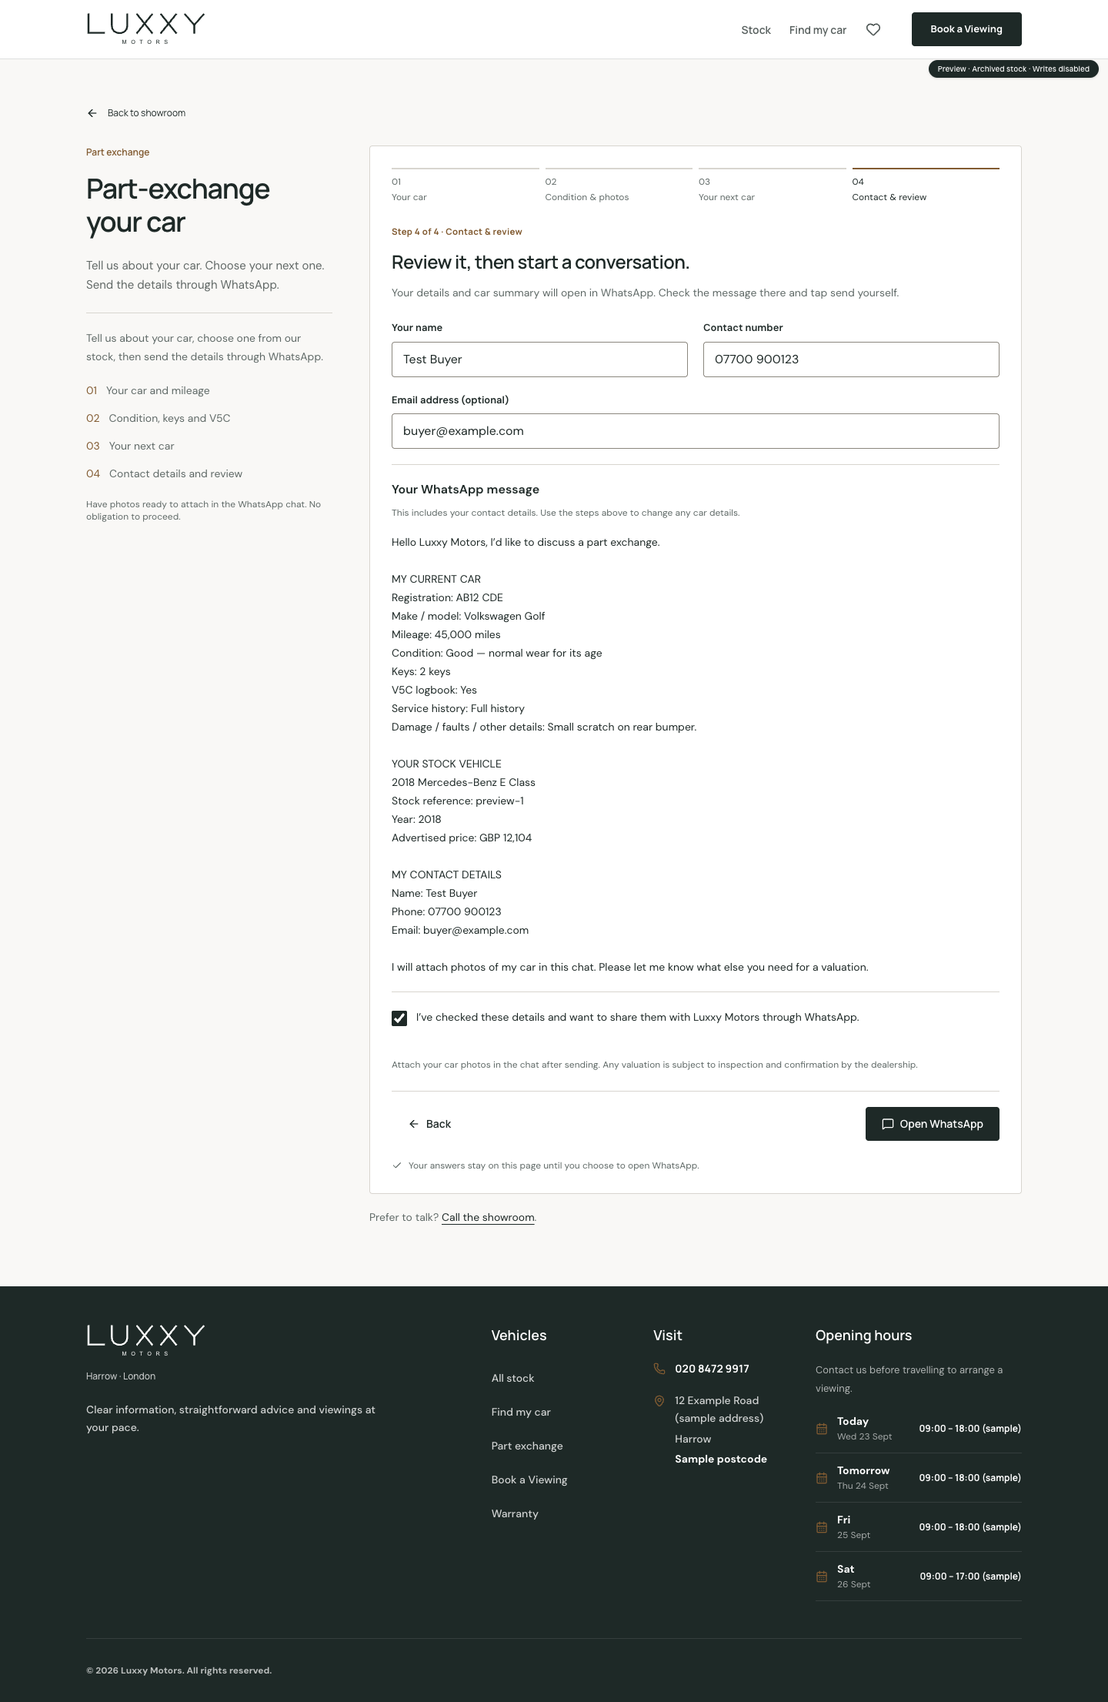
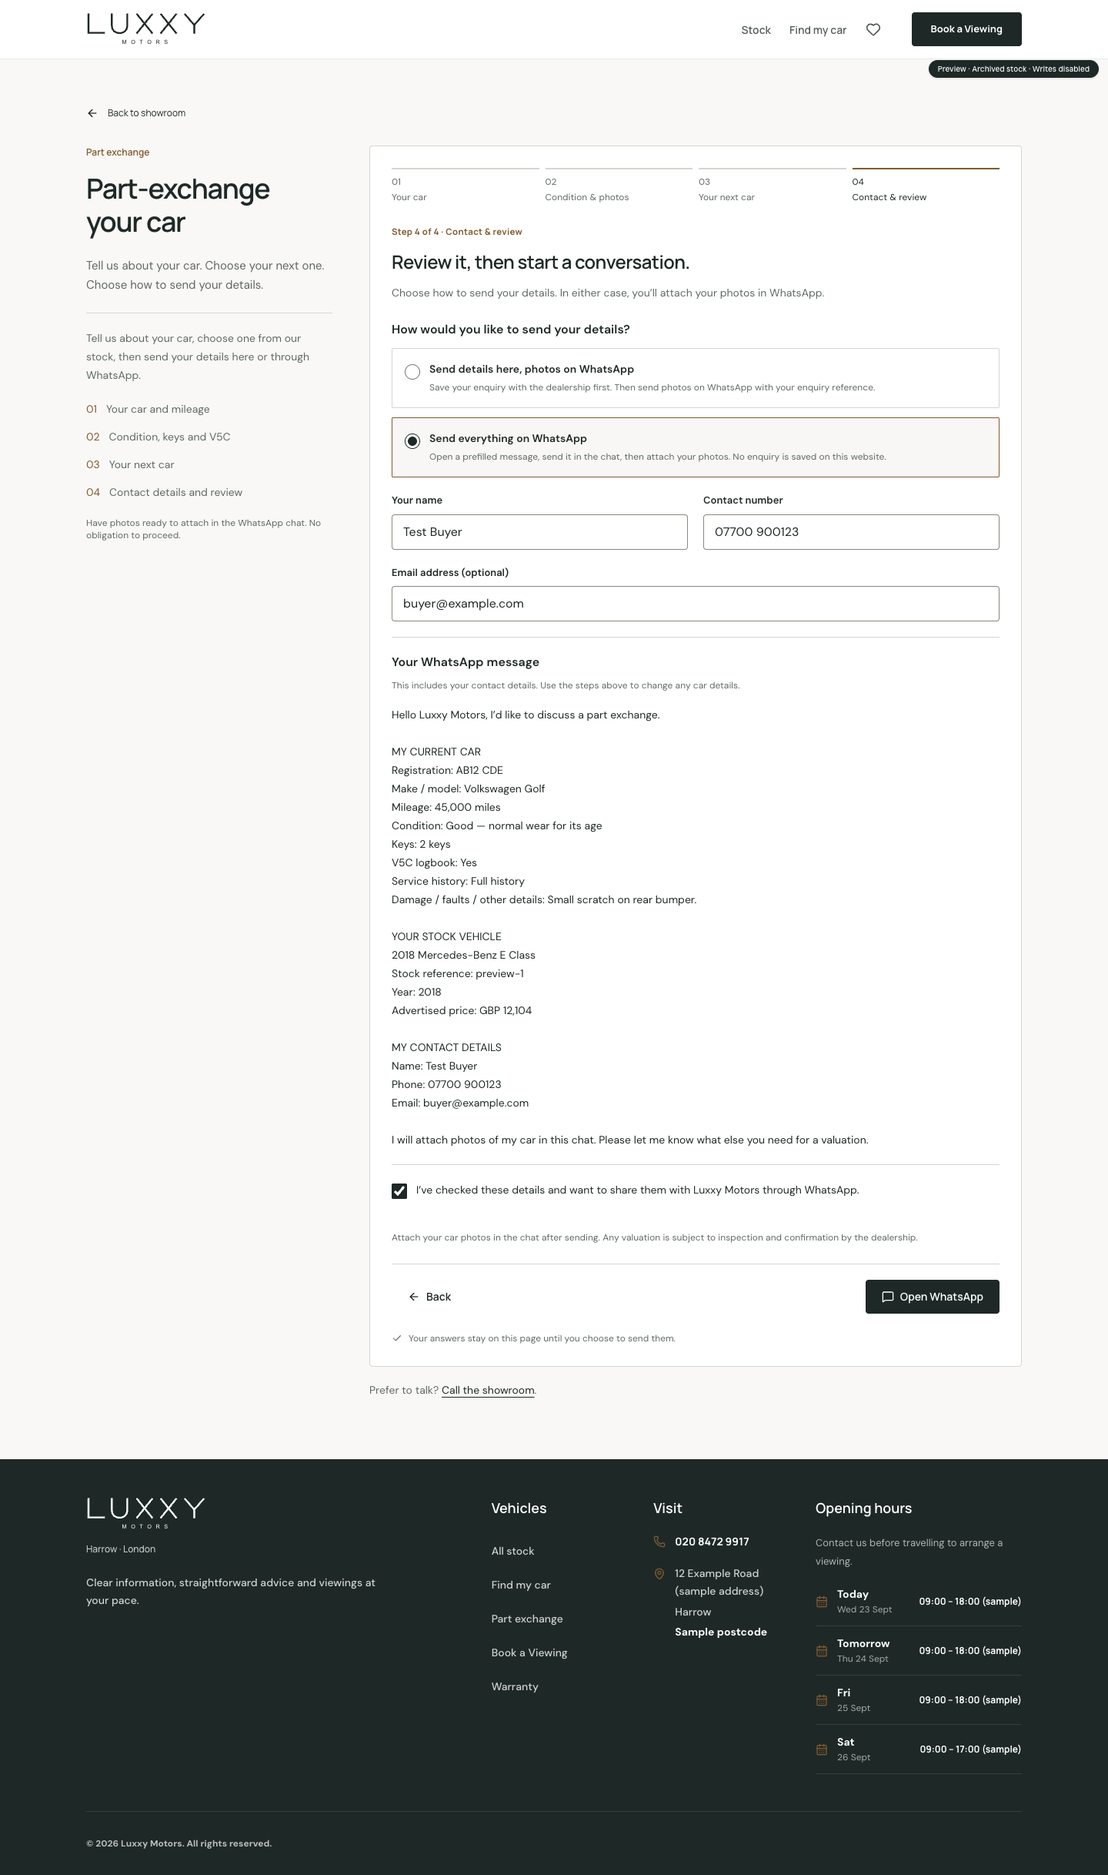
Offer website or WhatsApp delivery for part exchange

diff --git a/artifacts/luxxy-motors/src/components/part-exchange-form.tsx b/artifacts/luxxy-motors/src/components/part-exchange-form.tsx
@@ -1,3 +1,5 @@
+import { useCreateEnquiry, type EnquiryInput } from '@workspace/api-client-react';
+import { getVisitorId } from '@/lib/visitor';
 import { useEffect, useRef, useState, type FormEvent } from 'react';
 import { ArrowLeft, ArrowRight, Camera, Check, MessageSquare } from 'lucide-react';
 import { Button } from '@/components/ui/button';
@@ -20,6 +22,8 @@ const emptyDetails: PartExchangeDetails = {
 
 export function PartExchangeForm({ vehicle, stockCars }: { vehicle?: Car; stockCars: Car[] }) {
   const { settings } = useDealerSettings();
+  const mutation = useCreateEnquiry();
+  const [delivery, setDelivery] = useState<'website' | 'whatsapp'>('website');
   const [details, setDetails] = useState(emptyDetails);
   const [step, setStep] = useState(0);
   const [furthestStep, setFurthestStep] = useState(0);
@@ -41,7 +45,7 @@ export function PartExchangeForm({ vehicle, stockCars }: { vehicle?: Car; stockC
   useEffect(() => {
     if (hasMounted.current) heading.current?.focus();
     hasMounted.current = true;
-  }, [step]);
+  }, [step, mutation.isSuccess]);
   const message = selectedVehicle ? buildPartExchangeMessage(details, selectedVehicle, settings.identity.name) : '';
   const whatsAppHref = getWhatsAppHref(message, settings);
   const phoneHref = getPhoneHref(settings);
@@ -61,7 +65,21 @@ export function PartExchangeForm({ vehicle, stockCars }: { vehicle?: Car; stockC
       phoneInput.reportValidity();
       return;
     }
-    if (!ready || !reviewed || !whatsAppHref) return;
+    if (!ready || !reviewed || mutation.isPending) return;
+    if (delivery === 'website') {
+      if (message.length > 2000) { setLaunchError('Please shorten your condition notes before sending (maximum total summary: 2,000 characters).'); return; }
+      const condition = details.condition.split(' — ')[0].toLowerCase() as NonNullable<EnquiryInput['partExchange']>['condition'];
+      setLaunchError('');
+      mutation.mutate({ data: {
+        type: 'part_exchange', vehicleId: selectedVehicle!.id,
+        customerName: details.name.trim(), email: details.email.trim(),
+        phone: details.phone.replace(/[\s().\-/]/g, ''), preferredContact: 'whatsapp',
+        message, appointmentAt: null, visitorId: getVisitorId(),
+        partExchange: { registration: details.registration.trim().toUpperCase(), mileage: Number(details.mileage), condition },
+      } });
+      return;
+    }
+    if (!whatsAppHref) return;
     try {
       window.open(whatsAppHref, '_blank', 'noopener,noreferrer');
       setOpened(true);
@@ -71,7 +89,22 @@ export function PartExchangeForm({ vehicle, stockCars }: { vehicle?: Car; stockC
     }
   };
 
+  if (mutation.isSuccess) {
+    const photoHref = getWhatsAppHref(`Hello ${settings.identity.name}, here are the photos for my part-exchange enquiry ${mutation.data.reference}. My car: ${details.registration.trim().toUpperCase()} (${details.makeModel.trim()}). Name: ${details.name.trim()}.`, settings);
+    return <div className="space-y-5" data-testid="status-part-exchange-success">
+      <p className="luxxy-kicker">Details received</p>
+      <h2 ref={heading} tabIndex={-1} id="enquiry-form-heading" className="font-display text-2xl font-semibold outline-none">Now add your car photos.</h2>
+      <p className="text-sm leading-6 text-muted-foreground">Your part-exchange details have been saved for the team. Keep this reference so we can match your photos to the enquiry.</p>
+      <p className="border-y border-border py-4 font-mono text-xl font-semibold" data-testid="part-exchange-reference">{mutation.data.reference}</p>
+      {photoHref ? <Button asChild><a href={photoHref} target="_blank" rel="noopener noreferrer" data-testid="link-part-exchange-photos">Send photos through WhatsApp<ArrowRight className="h-4 w-4" aria-hidden="true" /></a></Button> : <p>WhatsApp is unavailable. Please call the showroom to arrange how to share your photos.</p>}
+      <p className="text-sm leading-6 text-muted-foreground">Send the prefilled reference message, then use WhatsApp’s attachment button to add the front, rear, both sides, interior, mileage and any damage. Photos are not attached automatically.</p>
+      {phoneHref && <a href={phoneHref} className="inline-flex min-h-11 items-center text-sm underline underline-offset-4">Call the showroom</a>}
+    </div>;
+  }
+
   return <form onSubmit={submit} className="space-y-6" data-testid="form-part-exchange">
+    <fieldset disabled={mutation.isPending} className="min-w-0 space-y-6">
+    <legend className="sr-only">Part-exchange enquiry</legend>
     <nav className="grid grid-cols-4 gap-2" aria-label="Part-exchange steps">
       {steps.map((label, index) => <button key={label} type="button" disabled={index > furthestStep} aria-label={`0${index + 1} ${label}`} aria-current={step === index ? 'step' : undefined} onClick={event => { if (index <= step || event.currentTarget.form?.reportValidity()) setStep(index); }} className={`min-h-11 border-t-2 pt-2 text-left text-xs focus-visible:ring-2 focus-visible:ring-accent disabled:opacity-45 ${index === step ? 'border-accent text-primary' : 'border-border text-muted-foreground'}`}>
         <span className="block">0{index + 1}</span><span className="mt-1 hidden sm:block">{label}</span>
@@ -86,7 +119,7 @@ export function PartExchangeForm({ vehicle, stockCars }: { vehicle?: Car; stockC
         'Start with the registration and mileage. No registration lookup is performed.',
         'An honest description helps the team discuss a realistic valuation.',
         'Select a vehicle from our current stock so we can discuss the part-exchange difference.',
-        'Your details and car summary will open in WhatsApp. Check the message there and tap send yourself.',
+        'Choose how to send your details. In either case, you’ll attach your photos in WhatsApp.',
       ][step]}</p>
     </div>
 
@@ -128,24 +161,35 @@ export function PartExchangeForm({ vehicle, stockCars }: { vehicle?: Car; stockC
     </fieldset>}
 
     {step === 3 && <div className="space-y-5">
+      <fieldset className="space-y-3"><legend className="mb-3 font-semibold">How would you like to send your details?</legend>
+        {([
+          ['website', 'Send details here, photos on WhatsApp', 'Save your enquiry with the dealership first. Then send photos on WhatsApp with your enquiry reference.'],
+          ['whatsapp', 'Send everything on WhatsApp', 'Open a prefilled message, send it in the chat, then attach your photos. No enquiry is saved on this website.'],
+        ] as const).map(([value, title, description]) => <label key={value} className={`flex cursor-pointer items-start gap-3 rounded-sm border p-4 ${delivery === value ? 'border-accent bg-accent/5' : 'border-border'}`}>
+          <input type="radio" name="partExchangeDelivery" value={value} checked={delivery === value} onChange={() => { setDelivery(value); setReviewed(false); setOpened(false); setLaunchError(''); mutation.reset(); }} className="mt-1 h-5 w-5 shrink-0 accent-primary" />
+          <span><span className="block text-sm font-semibold">{title}</span><span className="mt-1 block text-xs leading-5 text-muted-foreground">{description}</span></span>
+        </label>)}
+      </fieldset>
       {!ready && <p role="alert" className="text-sm text-destructive">Some car details are missing or your selected vehicle is no longer available. Go back to check your answers before continuing.</p>}
       <fieldset className="grid min-w-0 gap-5 sm:grid-cols-2"><legend className="sr-only">Your contact details</legend>
         <label><span className={labelClass}>Your name</span><Input required minLength={2} maxLength={120} value={details.name} autoComplete="name" onChange={event => update('name', event.target.value)} data-testid="input-customer-name" /></label>
         <label><span className={labelClass}>Contact number</span><Input name="partExchangePhone" required type="tel" inputMode="tel" pattern="[+0-9 ()/.-]{7,25}" title="Enter a phone number with 7–15 digits, including the country code if outside the UK." maxLength={25} value={details.phone} autoComplete="tel" onChange={event => { event.target.setCustomValidity(''); update('phone', event.target.value); }} onBlur={event => event.target.setCustomValidity(/^\+?\d{7,15}$/.test(details.phone.replace(/[\s().\-/]/g, '')) ? '' : 'Enter a valid phone number with 7–15 digits.')} data-testid="input-customer-phone" /></label>
-        <label className="sm:col-span-2"><span className={labelClass}>Email address (optional)</span><Input type="email" maxLength={254} value={details.email} autoComplete="email" onChange={event => update('email', event.target.value)} data-testid="input-customer-email" /></label>
+        <label className="sm:col-span-2"><span className={labelClass}>Email address{delivery === 'whatsapp' ? ' (optional)' : ' (for confirmation)'}</span><Input required={delivery === 'website'} type="email" maxLength={254} value={details.email} autoComplete="email" onChange={event => update('email', event.target.value)} data-testid="input-customer-email" /></label>
       </fieldset>
-      <div className="border-y border-border py-5"><h3 className="font-semibold">Your WhatsApp message</h3><p className="mt-2 text-xs leading-5 text-muted-foreground">This includes your contact details. Use the steps above to change any car details.</p><pre className="mt-4 whitespace-pre-wrap break-words font-sans text-sm leading-6 text-primary" data-testid="part-exchange-message-preview">{message}</pre></div>
-      <label className="flex min-h-11 cursor-pointer items-start gap-3 text-sm leading-6"><input type="checkbox" required checked={reviewed} onChange={event => setReviewed(event.target.checked)} className="mt-1 h-5 w-5 shrink-0 accent-primary" />I’ve checked these details and want to share them with {settings.identity.name} through WhatsApp.</label>
+      <div className="border-y border-border py-5"><h3 className="font-semibold">{delivery === 'website' ? 'Your enquiry details' : 'Your WhatsApp message'}</h3><p className="mt-2 text-xs leading-5 text-muted-foreground">This includes your contact details. Use the steps above to change any car details.</p><pre className="mt-4 whitespace-pre-wrap break-words font-sans text-sm leading-6 text-primary" data-testid="part-exchange-message-preview">{message}</pre></div>
+      <label className="flex min-h-11 cursor-pointer items-start gap-3 text-sm leading-6"><input type="checkbox" required checked={reviewed} onChange={event => setReviewed(event.target.checked)} className="mt-1 h-5 w-5 shrink-0 accent-primary" />I’ve checked these details and want to share them with {settings.identity.name} {delivery === 'whatsapp' ? 'through WhatsApp' : 'through this enquiry form'}.</label>
       <p className="text-xs leading-5 text-muted-foreground">Attach your car photos in the chat after sending. Any valuation is subject to inspection and confirmation by the dealership.</p>
       {opened && <p role="status" className="border-l-2 border-accent pl-4 text-sm leading-6">WhatsApp was requested. Your enquiry is not submitted on this website. If the chat opened, tap send there, then attach your photos. If it didn’t open, allow pop-ups and try again.</p>}
+      {mutation.isError && <p role="alert" className="text-sm leading-6 text-destructive">We couldn’t confirm your enquiry was saved. Your details are still here. Please try again, or choose “Send everything on WhatsApp”.</p>}
       {launchError && <p role="alert" className="text-sm text-destructive">{launchError}</p>}
     </div>}
 
     {!whatsAppHref && <p role="status" className="text-sm leading-6 text-muted-foreground">WhatsApp is not available for this dealership. {phoneHref ? <a className="underline underline-offset-4" href={phoneHref}>Call the showroom to discuss your part exchange.</a> : 'Please contact the dealership directly.'}</p>}
     <div className="flex items-center justify-between gap-3 border-t border-border pt-5">
       {step > 0 ? <Button type="button" variant="ghost" onClick={() => setStep(step - 1)}><ArrowLeft className="h-4 w-4" aria-hidden="true" />Back</Button> : <span className="text-xs text-muted-foreground">Contact details at the end</span>}
-      <Button type="submit" disabled={step === 2 ? !selectedVehicle : step === 3 ? !ready || !whatsAppHref : false} data-testid="button-part-exchange-continue">{step === 3 ? <><MessageSquare className="h-4 w-4" aria-hidden="true" />Open WhatsApp</> : <>Continue<ArrowRight className="h-4 w-4" aria-hidden="true" /></>}</Button>
+      <Button type="submit" disabled={mutation.isPending || (step === 2 ? !selectedVehicle : step === 3 ? !ready || (delivery === 'whatsapp' && !whatsAppHref) : false)} data-testid="button-part-exchange-continue">{step === 3 ? <><MessageSquare className="h-4 w-4" aria-hidden="true" />{mutation.isPending ? 'Sending details…' : delivery === 'website' ? 'Send my details' : 'Open WhatsApp'}</> : <>Continue<ArrowRight className="h-4 w-4" aria-hidden="true" /></>}</Button>
     </div>
-    <p className="flex items-center gap-2 text-xs text-muted-foreground"><Check className="h-3.5 w-3.5" aria-hidden="true" />Your answers stay on this page until you choose to open WhatsApp.</p>
+    <p className="flex items-center gap-2 text-xs text-muted-foreground"><Check className="h-3.5 w-3.5" aria-hidden="true" />Your answers stay on this page until you choose to send them.</p>
+    </fieldset>
   </form>;
 }

diff --git a/artifacts/luxxy-motors/tests/part-exchange-whatsapp.spec.ts b/artifacts/luxxy-motors/tests/part-exchange-whatsapp.spec.ts
@@ -38,6 +38,7 @@ for (const width of [390, 1440]) {
     await page.getByTestId('select-part-exchange-target-vehicle').selectOption('preview-1');
     await expect(page.getByTestId('card-part-exchange-target-vehicle')).toBeVisible();
     await next.click();
+    await page.getByRole('radio', { name: /Send everything on WhatsApp/ }).check();
     await page.getByTestId('input-customer-name').fill('Test Buyer');
     await page.getByTestId('input-customer-phone').fill('07700 900123');
     await page.getByTestId('input-customer-email').fill('buyer@example.com');
@@ -73,4 +74,47 @@ test('stock vehicle link preselects a current car', async ({ page }) => {
   await page.getByTestId('select-part-exchange-history').selectOption('Not sure');
   await page.getByTestId('button-part-exchange-continue').click();
   await expect(page.getByTestId('select-part-exchange-target-vehicle')).toHaveValue('preview-1');
+});
+
+test('save details first, recover from failure, then offer photos with the enquiry reference', async ({ page }) => {
+  let payload: any;
+  let requests = 0;
+  await page.route('**/api/enquiries', async route => {
+    requests++;
+    payload = route.request().postDataJSON();
+    await route.fulfill(requests === 1 ? { status: 503, json: { error: 'Unavailable' } } : { json: { reference: 'PX-TEST-42', customerNotificationStatus: 'sent' } });
+  });
+  await page.goto('/enquire?type=part_exchange&vehicleId=preview-1');
+  const next = page.getByTestId('button-part-exchange-continue');
+  await page.getByTestId('input-part-exchange-registration').fill('AB12 CDE');
+  await page.getByTestId('input-part-exchange-model').fill('Ford Focus');
+  await page.getByTestId('input-part-exchange-mileage').fill('42000');
+  await next.click();
+  await page.getByTestId('select-part-exchange-condition').selectOption({ label: 'Good — normal wear for its age' });
+  await page.getByTestId('select-part-exchange-keys').selectOption('2 keys');
+  await page.getByTestId('select-part-exchange-v5').selectOption('Yes');
+  await page.getByTestId('select-part-exchange-history').selectOption('Full history');
+  await next.click();
+  await next.click();
+  await expect(page.getByRole('radio', { name: /Send details here/ })).toBeChecked();
+  await page.getByTestId('input-customer-name').fill('Test Buyer');
+  await page.getByTestId('input-customer-phone').fill('07700 900123');
+  await page.getByRole('checkbox').check();
+  await next.click();
+  expect(requests).toBe(0); // Email is required for the existing enquiry API.
+  await page.getByTestId('input-customer-email').fill('buyer@example.com');
+  await page.getByRole('checkbox').check();
+  await next.click();
+  await expect(page.getByRole('alert')).toContainText('Your details are still here');
+  await expect(page.getByTestId('input-customer-email')).toHaveValue('buyer@example.com');
+  await next.click();
+  await expect(page.getByTestId('status-part-exchange-success')).toBeVisible();
+  await expect(page.locator('#enquiry-form-heading')).toBeFocused();
+  expect(payload).toMatchObject({ type: 'part_exchange', vehicleId: 'preview-1', customerName: 'Test Buyer', email: 'buyer@example.com', phone: '07700900123', preferredContact: 'whatsapp', partExchange: { registration: 'AB12 CDE', mileage: 42000, condition: 'good' } });
+  for (const value of ['Ford Focus', 'Keys: 2 keys', 'V5C logbook: Yes', 'Service history: Full history']) expect(payload.message).toContain(value);
+  const photoLink = await page.getByTestId('link-part-exchange-photos').getAttribute('href');
+  const text = new URL(photoLink!).searchParams.get('text');
+  expect(text).toContain('PX-TEST-42');
+  expect(text).toContain('AB12 CDE');
+  expect(requests).toBe(2);
 });

diff --git a/artifacts/luxxy-motors/src/pages/enquire.tsx b/artifacts/luxxy-motors/src/pages/enquire.tsx
@@ -17,7 +17,7 @@ const headings: Record<EnquiryType, { eyebrow: string; title: string; descriptio
   general: { eyebrow: 'Talk to the team', title: 'How can we help?', description: 'A direct line to the team behind the showroom. We will come back to you with a useful answer.' },
   delivery: { eyebrow: 'Nationwide delivery', title: 'Arrange delivery', description: 'Tell us your location and the car you are interested in. We will confirm delivery options and costs.' },
   warranty: { eyebrow: 'Added peace of mind', title: 'Warranty enquiries', description: 'We will talk you through the warranty options available for the vehicle you have in mind.' },
-  part_exchange: { eyebrow: 'Part exchange', title: 'Part-exchange your car', description: 'Tell us about your car. Choose your next one. Send the details through WhatsApp.' },
+  part_exchange: { eyebrow: 'Part exchange', title: 'Part-exchange your car', description: 'Tell us about your car. Choose your next one. Choose how to send your details.' },
 };
 
 const metaHeadings: Record<EnquiryType, string> = {
@@ -87,7 +87,7 @@ export default function Enquire() {
 
             {type === 'part_exchange' ? (
               <div className="mt-6 hidden space-y-5 border-t border-border pt-5 text-sm leading-6 text-muted-foreground lg:block">
-                <p>Tell us about your car, choose one from our stock, then send the details through WhatsApp.</p>
+                <p>Tell us about your car, choose one from our stock, then send your details here or through WhatsApp.</p>
                 <ol className="hidden space-y-3 lg:block">
                   <li><span className="mr-3 text-accent">01</span>Your car and mileage</li>
                   <li><span className="mr-3 text-accent">02</span>Condition, keys and V5C</li>

diff --git a/docs/ui-redesign.md b/docs/ui-redesign.md
@@ -398,3 +398,9 @@ Replaced the part-exchange enquiry form with a dedicated four-step customer jour
 The user chose WhatsApp-only delivery rather than adding photo-upload storage. The customer reviews the message and opens WhatsApp with it prefilled, then sends it and attaches photos in the chat. The site deliberately has no upload control and does not claim that photos or enquiries were submitted. The photo guide covers front/rear, both sides, interior, dashboard/mileage, wheels and damage. No personal-document photographs are requested. There is a showroom-call fallback if WhatsApp is unavailable. Answers are component-local, not stored in browser persistence, and this journey makes no enquiry POST. Consequently these WhatsApp requests do not automatically create staff-portal leads. No backend, database, API contract, authentication or sales-rule changes were made.
 
 Validation: 141 frontend tests passed, including summary tests for zero mileage, document uncertainty, optional email and excluding registration age bands from actual plates. Twenty browser checks passed (three new part-exchange checks and seventeen existing redesign journeys); the three new checks were rerun after final visual refinements. Desktop/mobile tests validate required fields and vehicle selection, draft contents, consent, back navigation, preselected stock vehicles, no enquiry POST and the WhatsApp handoff without opening/sending an external chat. Full workspace typechecking/build passed; existing Vite chunk-size and tooltip sourcemap advisories remain. Reviewed the flow in the local browser and saved fresh 390px/1440px condition/review screenshots under `docs/screenshots/part-exchange-whatsapp/`. Production was not touched.
+
+### Part-exchange delivery choice
+
+Added a final-step choice between saving the details through the existing enquiry API then sending photos on WhatsApp, or sending the full message and photos in WhatsApp only. Website delivery requires email for the existing API; WhatsApp-only keeps email optional. The structured registration, mileage and condition fields are retained, with keys, V5C, history and the full brief included in the enquiry message. A successful website submission shows the enquiry reference and a separate WhatsApp photo link containing that reference. The form is disabled during submission; a failure retains the draft and supports retry or switching to WhatsApp. No backend/schema or production changes.
+
+Validation: 141 frontend tests and four dedicated browser checks passed, including mocked website failure/retry, payload checks, reference-linked photo follow-up, optional/required email behaviour and WhatsApp-only delivery without an enquiry POST. Workspace typechecking/build passed (existing chunk-size advisory remains). Updated desktop/mobile screenshots in the same directory. This supersedes the WhatsApp-only limitation above: website submissions now create staff-portal enquiries, while the WhatsApp-only option does not.
